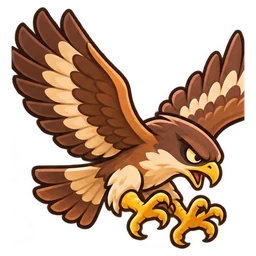
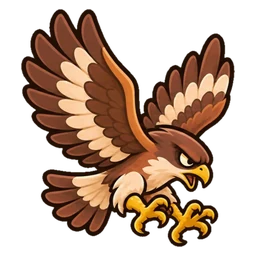
Animazioni di Gallico e Falco; nuova icona del Falco dal volo
Claude-Session: https://claude.ai/code/session_01HfaWZ85fbzKyRqfxnb746i

diff --git a/sw.js b/sw.js
@@ -2,7 +2,7 @@
 // Pagina e script: prima la rete (così gli aggiornamenti arrivano subito), poi la copia salvata.
 // Immagini: prima la copia salvata. Quando cambi immagini già esistenti, aumenta VERSION.
 // tools/test-pwa.js controlla che tutte le icone siano in PRECACHE.
-const VERSION='ff-v9';
+const VERSION='ff-v10';
 const PRECACHE=[
  "./",
  "index.html",
@@ -39,6 +39,10 @@ const PRECACHE=[
  "icons/anim/corvo-fly.webp",
  "icons/anim/faina-atk.webp",
  "icons/anim/faina-walk.webp",
+ "icons/anim/falco-atk.webp",
+ "icons/anim/falco-fly.webp",
+ "icons/anim/gallico-atk.webp",
+ "icons/anim/gallico-walk.webp",
  "icons/anim/gatto-atk.webp",
  "icons/anim/gatto-walk.webp",
  "icons/anim/gazza-carry.webp",

diff --git a/index.html b/index.html
@@ -1402,6 +1402,8 @@ const ANIM={
   mais:{h:42,st:{n:4,fw:96,fh:130,ax:.504}},
   spaventa:{h:44,hit:{n:4,fw:122,fh:143,ax:.514}},
   corvo:{h:40,fly:{n:4,fw:151,fh:179,ax:.994,ox:62},atk:{n:4,fw:172,fh:173,ax:.983,ox:62}},
+  gallico:{h:35,stride:5,walk:{n:4,fw:112,fh:130,ax:.5},atk:{n:4,fw:152,fh:130,ax:.507}},
+  falco:{h:36,fly:{n:4,fw:191,fh:216,ax:.542},atk:{n:4,fw:212,fh:207,ax:.515}},
   gazza:{h:40,fly:{n:4,fw:186,fh:193,ax:.994,ox:78},carry:{n:4,fw:184,fh:192,ax:.994,ox:78}},
 };
 // file: icons/anim/<personaggio>-walk|atk|fly.webp; ax = punto d'aggancio nel fotogramma (0 sinistra, 1 destra), ox = suo spostamento dal centro (px a scala 128)

diff --git a/tools/immagini/sheet.py b/tools/immagini/sheet.py
@@ -43,10 +43,10 @@ else: anc=[(b[0]+b[2])/2 for b in boxes]
 # ogni fotogramma resta nella sua posizione verticale originale (piedi sulla stessa linea)
 L=max(a-b[0] for a,b in zip(anc,boxes))+3;Rr=max(b[2]-a for a,b in zip(anc,boxes))+3
 yt=min(b[1] for b in boxes)-3;yb=max(b[3] for b in boxes)+3
-med=sorted(b[3]-b[1] for b in boxes)[N//2];s=BASE/med
+med=sorted(b[3]-b[1] for b in boxes)[N//2];s=float(os.environ['SCALE']) if os.environ.get('SCALE') else BASE/med  # SCALE: stessa scala di un altro foglio dello stesso personaggio
 FW=round((L+Rr)*s);FH=round((yb-yt)*s)
 out=Image.new('RGBA',(FW*N,FH),(0,0,0,0))
 for i,(f,a) in enumerate(zip(frames,anc)):
     l=int(round(a-L));cr=f.crop((l,yt,l+int(L+Rr),yb)).resize((FW,FH),Image.LANCZOS);out.alpha_composite(cr,(i*FW,0))
 out.save(dst,'WEBP',quality=86,method=6)
-print(json.dumps({'n':N,'fw':FW,'fh':FH,'ax':round(L/(L+Rr),3)}))
+print(json.dumps({'n':N,'fw':FW,'fh':FH,'ax':round(L/(L+Rr),3),'scale':round(s,4)}))

diff --git a/CLAUDE.md b/CLAUDE.md
@@ -11,4 +11,4 @@
 - Le nuove immagini vanno anche in `PRECACHE` di `sw.js`; se si sostituisce un'immagine esistente, aumentare `VERSION`.
 - Sfondo nero: non scontornare per soglia di luminosità (i contorni scuri si fondono con lo sfondo e restano aloni). Chiedere l'immagine su bianco o trasparente.
 - Topi: l'icona resta quella con più topi, ma le animazioni in campo sono di un solo topo (ogni topo è un'unità).
-- Prompt per le immagini: chiedere sempre **transparent background (no background)**, mai "pure white background".
+- Prompt per le immagini: scrivere sempre **no background** (non "transparent background", che lascia una nebbiolina, né "pure white background").
